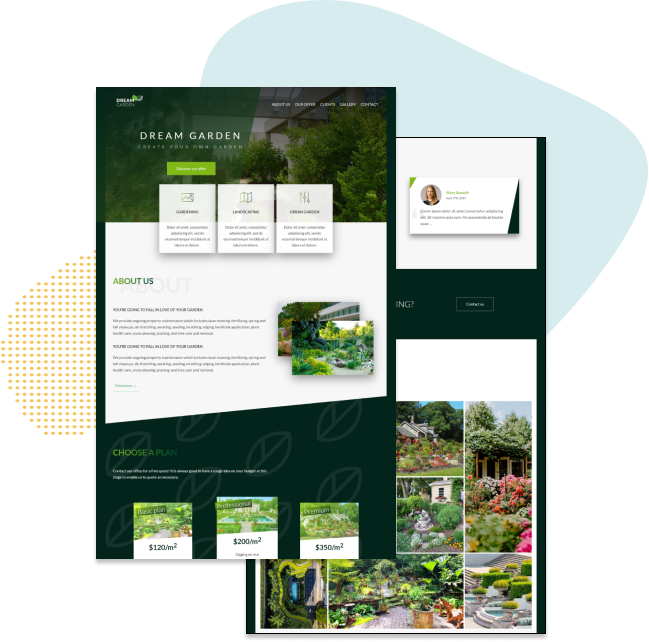
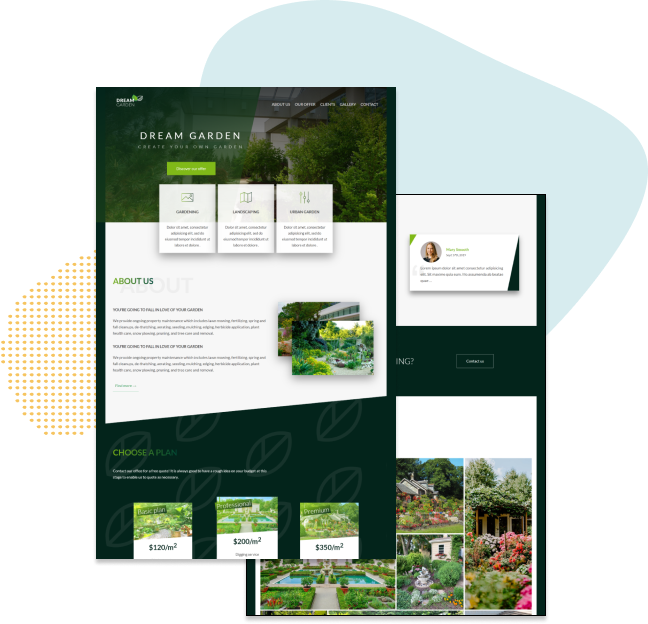
nav responsive & mq corrections

diff --git a/css/style.css b/css/style.css
@@ -34,7 +34,7 @@
   display: flex;
   align-items: center;
   padding: 0 3.2rem;
-  position: relative;
+  position: relative; /* for the menu*/
   z-index: 2;
 }
 
@@ -59,12 +59,33 @@
   font-size: 1.8rem;
   color: var(--secondary-dark-1);
   transition: all 0.3s;
+  padding: 20px 0;
 }
 
-/* .main-nav-link:hover,
+.main-nav-link:hover,
 .main-nav-link:active {
-  color: var(--primary-color);
-} */
+  color: var(--tertiary-dark-1);
+}
+
+/* ---------- Navigation mobile ---------- */
+
+.btn-mobile-nav {
+  border: none;
+  margin-left: auto;
+  background: none;
+  cursor: pointer;
+  display: none;
+}
+
+.icon-mobile-nav {
+  height: 4.4rem;
+  width: 4.4rem;
+}
+
+/* we don't display the close button */
+.icon-mobile-nav[name="close-btn"] {
+  display: none;
+}
 
 /* ---------- Hero area --------- */
 
@@ -86,7 +107,7 @@
 
 .hero-image {
   max-width: 100%;
-
+  display: block;
   /* padding-top: 3rem; */
   max-height: calc(100vh - 8rem);
 }
@@ -166,15 +187,15 @@
 
 .skills-top-heading span {
   display: inline-block;
-  background-color: var(--tertiary-light-1);
+  background-color: var(--tertiary-light-2);
   border-radius: 1px;
-  padding: 0.6rem 1rem;
+  padding: 0.6rem 2rem;
   letter-spacing: 4px;
 }
 
 .skill-icon {
   color: var(--primary-dark-1);
-  background-image: url("./images/back-tool.svg");
+  background-image: url("../images/back-tool.svg");
   background-size: cover;
   background-position: center;
   background-repeat: no-repeat;
@@ -204,7 +225,7 @@
   stop-color: var(--primary-light-3);
 }
 
-/* =========== Section projects ==========./
+/* =========== Section projects ==========./ */
 
 .section-projects {
   padding-top: 9.6rem;
@@ -343,18 +364,20 @@
   list-style: none;
   display: flex;
   gap: 3.2rem;
+  z-index: 5;
 }
 
 .social-media-link:link,
 .social-media-link:visited {
   text-decoration: none;
   display: block;
-  fill: var(--secondary-dark-1);
+  fill: var(--secondary-dark-2);
+  transition: all 0.5s;
 }
 
 .social-media-link:hover,
 .social-media-link:active {
-  fill: var(--secondary-dark-2);
+  fill: var(--white);
 }
 
 .social-media-icon {

diff --git a/css/queries.css b/css/queries.css
@@ -51,10 +51,22 @@
     height: 4rem;
   }
 
-  /* Navigation */
+  /* ---------- Mobile navigation ---------- */
+
+  .btn-mobile-nav {
+    z-index: 999;
+    display: flex;
+    align-items: center;
+  }
 
   .main-nav {
-    background-color: var(--primary-dark-1);
+    background-color: rgba(255, 255, 255, 0.93);
+    --webkit-backdrop-filter: blur(5px);
+    --moz-backdrop-filter: blur(5px);
+    backdrop-filter: blur(
+      5px
+    ); /* will blur all the background behind the nav */
+
     position: absolute;
     top: 0;
     left: 0;
@@ -69,7 +81,7 @@
 
     /* ----- Hide navigation ----- */
 
-    /* --- Doesn't allows any transitions at all */
+    /* --- Doesn't allow any transitions at all */
     /* display: none; */
 
     /* --- Another way to hide an element without display, to use transition */
@@ -81,11 +93,36 @@
 
     /* 3) Hide it from screen readers */
     visibility: hidden;
+    /* }  */
   }
 
   .main-nav-list {
     flex-direction: column;
     gap: 4.8rem;
+  }
+
+  .main-nav-link:link,
+  .main-nav-link:visited {
+    font-size: 3rem;
+  }
+
+  .main-nav-list .btn-outline-ter-sm {
+    font-size: 2.6rem;
+  }
+
+  .nav-open .main-nav {
+    opacity: 1;
+    pointer-events: auto;
+    visibility: visible;
+    transform: translateX(0);
+  }
+
+  .nav-open .icon-mobile-nav[name="close-btn"] {
+    display: block;
+  }
+
+  .nav-open .icon-mobile-nav[name="menu-btn"] {
+    display: none;
   }
 }
 
@@ -319,8 +356,18 @@
     gap: 2.4rem;
   }
 
+  .project-even .container,
+  .project-odd .container {
+    padding: 0 2.4rem;
+  }
+
   .project-img-box {
     width: 100%;
+    text-align: center;
+  }
+
+  .project-img {
+    width: 90%;
   }
 
   .footer {

diff --git a/css/general.css b/css/general.css
@@ -54,6 +54,7 @@ html {
   /* Percentage of user's browser font-size setting */
   font-size: 62.5%;
   overflow-x: hidden; /* we don't want to see the mobile menu from outside the screen */
+  scroll-behavior: smooth;
 }
 
 body {
@@ -178,7 +179,7 @@ body {
 
 .btn-full-pri:link,
 .btn-full-pri:visited {
-  background-color: var(--primary-dark-1);
+  background-color: var(--primary);
   color: var(--white);
   transition: all 0.3s;
 }
@@ -202,8 +203,8 @@ body {
 
 .btn-outline-ter-sm:hover,
 .btn-outline-ter-sm:active {
-  background-color: var(--tertiary);
-  color: var(--primary);
+  color: var(--white);
+  background-color: var(--tertiary-dark-1);
   box-shadow: inset 0 0 0 1px var(--tertiary); /* creates a border*/
 }
 
@@ -216,9 +217,9 @@ body {
 
 .btn-outline-pri:hover,
 .btn-outline-pri:active {
-  color: var(--primary-dark-2);
-  background-color: var(--primary-light-1);
-  box-shadow: inset 0 0 0 1px var(--primary); /* creates a border*/
+  color: var(--white);
+  background-color: var(--tertiary-dark-1);
+  box-shadow: inset 0 0 0 1px var(--tertiary-light-2); /* creates a border*/
 }
 .btn-outline-ter:link,
 .btn-outline-ter:visited {
@@ -229,8 +230,8 @@ body {
 
 .btn-outline-ter:hover,
 .btn-outline-ter:active {
-  color: var(--primary);
-  background-color: var(--tertiary);
+  color: var(--white);
+  background-color: var(--tertiary-dark-1);
   box-shadow: inset 0 0 0 1px var(--tertiary); /* creates a border*/
 }
 

diff --git a/index.html b/index.html
@@ -9,6 +9,8 @@
     <link rel="stylesheet" href="css/general.css">
     <link rel="stylesheet" href="css/style.css">
     <link rel="stylesheet" href="css/queries.css">
+
+    <script defer src="js/script.js"></script>
     <title>Diana Martina projects</title>
 </head>
 
@@ -28,7 +30,10 @@
                     <li><a class="btn btn-outline-ter-sm" href="#contact">contact</a></li>
                 </ul>
             </nav>
-            <!-- @TODO btn mobile nav -->
+            <button class="btn-mobile-nav">
+                <img src="images/menu-btn.svg" alt="menu button" class="icon-mobile-nav" name="menu-btn">
+                <img src="images/close-btn.svg" alt="close button" class="icon-mobile-nav" name="close-btn">
+            </button>
         </header>
 
         <div class="hero-area ">
@@ -402,7 +407,8 @@
 
                         </div>
                         <ul class="social-media-icons">
-                            <li><a href="https://www.linkedin.com/in/seiculescu-diana-51674b59/" target="_blank"
+                            <li>
+                                <a href="https://www.linkedin.com/in/seiculescu-diana-51674b59/" target="_blank"
                                     class="social-media-link">
                                     <!-- linkedIn icon -->
                                     <svg class="social-media-icon" viewBox=" 0 0 31 31"

diff --git a/js/script.js b/js/script.js
@@ -1,0 +1,8 @@
+// --------- Navigation ---------
+
+const btnNavEl = document.querySelector(".btn-mobile-nav");
+const headerEl = document.querySelector(".header");
+
+btnNavEl.addEventListener("click", function () {
+  headerEl.classList.toggle("nav-open");
+});
